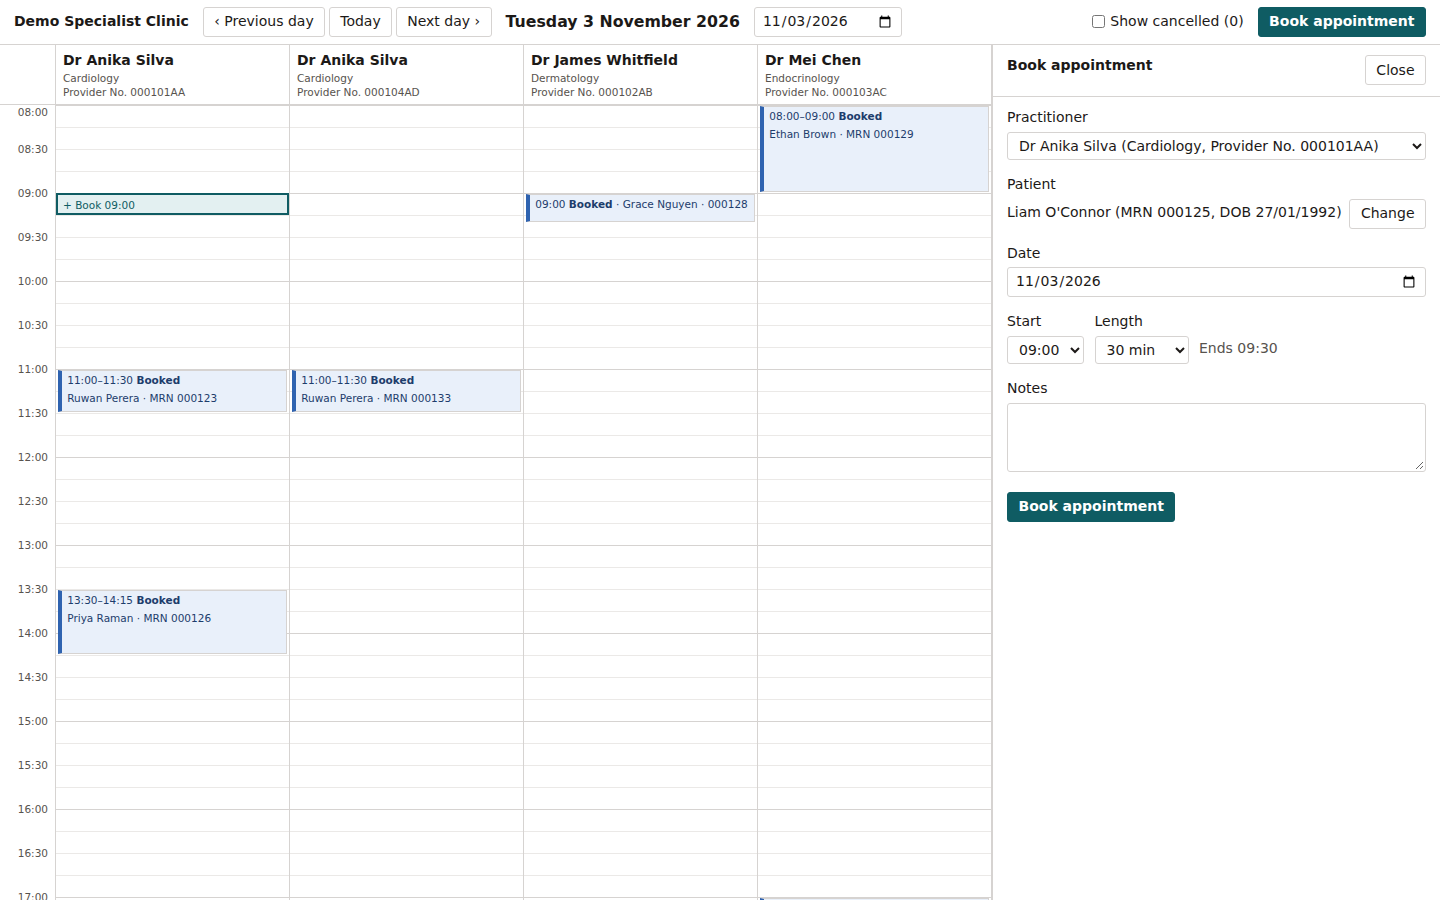
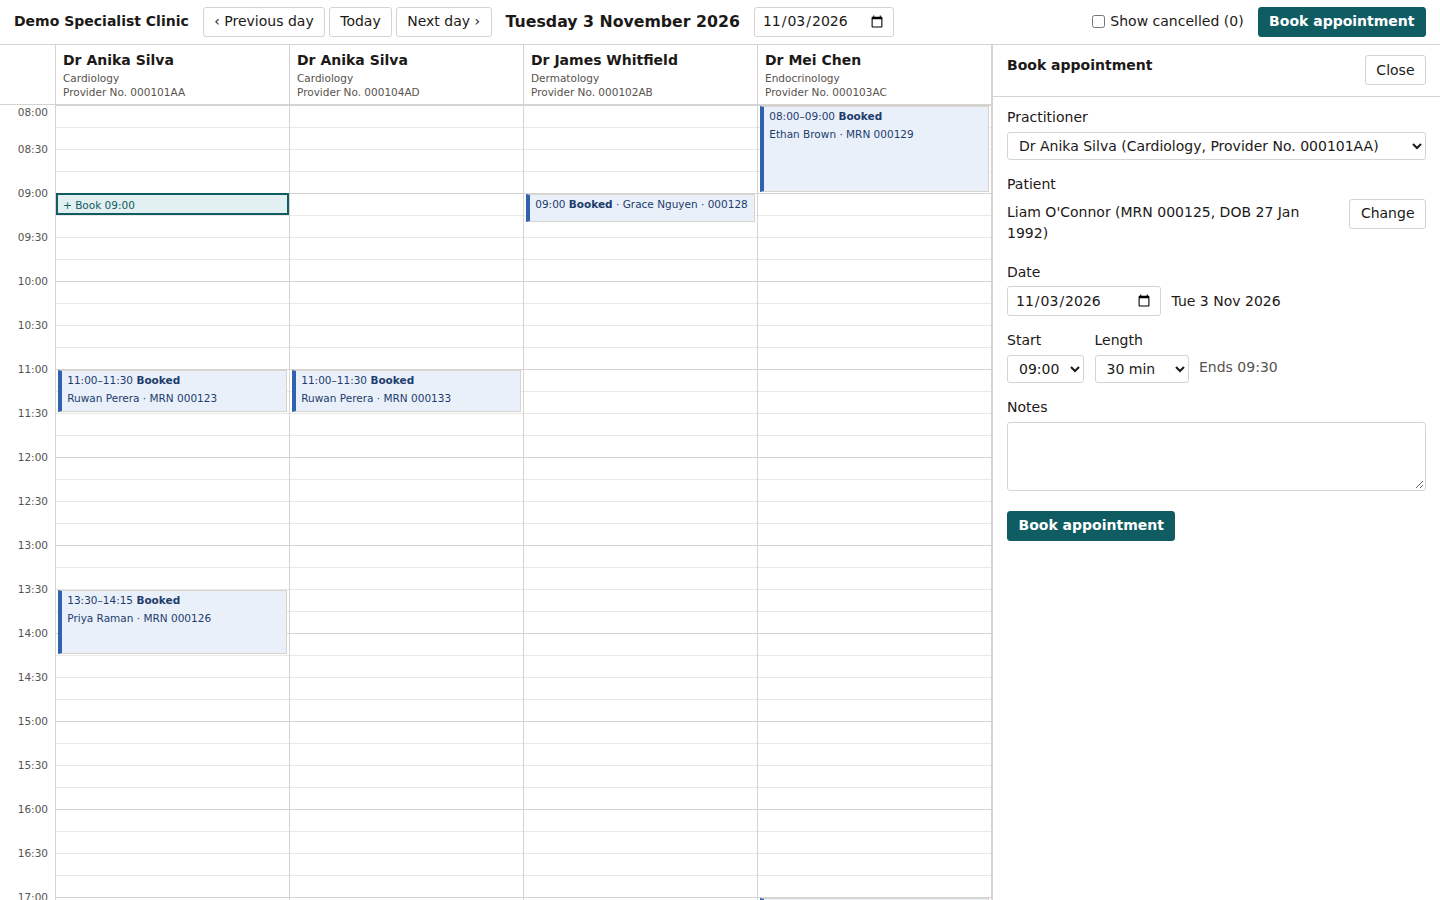
Show dates in words so they can't be misread
A date picker follows the browser's locale (11/02/2026 in a US-English
browser) while DOBs were shown day first (03/01/1998). In a clinic a
misread birth date matters, so every date people read is now in words:

- Patient labels: "Ruwan Perera (MRN 000123, DOB 12 Apr 1968)"
- The chosen date next to the booking date picker ("Mon 2 Nov 2026") and
  the date of birth next to the registration picker ("3 Jan 1998"), linked
  to the inputs with aria-describedby
- Patient search also accepts "3 Jan 1998" and "3 January 1998"
- The API keeps ISO dates
- Form styles moved into Tailwind's components layer so width utilities
  (w-44, w-auto) apply; the date fields were stretching to full width
- Tests, e2e and screenshots updated; new README screenshots of ambiguous
  names and a messy sentence, taken with the real Gemini API and invented
  names

diff --git a/frontend/e2e/booking.spec.ts b/frontend/e2e/booking.spec.ts
@@ -38,15 +38,17 @@ test("book an appointment from a free slot", async ({ page }) => {
   await expect(page.getByRole("heading", { name: "Book appointment" })).toBeVisible();
   await expect(page.getByLabel("Practitioner", { exact: true })).toHaveValue(/\d+/);
   await expect(page.getByLabel("Start")).toHaveValue("09:00");
+  // The date picker's own format follows the browser; the date is also shown in words.
+  await expect(page.getByLabel("Date", { exact: true })).toHaveAccessibleDescription(/^(Mon|Tue|Wed|Thu|Fri) \d{1,2} [A-Z][a-z]{2} \d{4}$/);
 
-  await choosePatient(page, "000125", "Liam O'Connor (MRN 000125, DOB 27/01/1992)");
+  await choosePatient(page, "000125", "Liam O'Connor (MRN 000125, DOB 27 Jan 1992)");
   await expect(page.getByText("Ends 09:30")).toBeVisible();
   if (saveScreenshots) await page.screenshot({ path: "../docs/screenshots/booking-panel.png" });
 
   await bookButton(page).click();
   await expect(page.getByText("Appointment booked.")).toBeVisible();
   await expect(
-    page.getByRole("button", { name: "09:00 to 09:30, Liam O'Connor (MRN 000125, DOB 27/01/1992), Booked" }),
+    page.getByRole("button", { name: "09:00 to 09:30, Liam O'Connor (MRN 000125, DOB 27 Jan 1992), Booked" }),
   ).toBeVisible();
 });
 
@@ -55,7 +57,7 @@ test("a clash shows its error under the practitioner field", async ({ page }) =>
 
   // Dr Silva (000101AA) has 11:00-11:30 booked on this day; 10:45 for 30 minutes runs into it.
   await page.getByRole("button", { name: `Book with ${SILVA} at 10:45` }).click();
-  await choosePatient(page, "000132", "Isla Robinson (MRN 000132, DOB 16/08/1996)");
+  await choosePatient(page, "000132", "Isla Robinson (MRN 000132, DOB 16 Aug 1996)");
   await page.getByLabel("Notes").fill("Kept after the error");
   await bookButton(page).click();
 
@@ -68,8 +70,8 @@ test("a clash shows its error under the practitioner field", async ({ page }) =>
 
 test("cancel an appointment, then see it with Show cancelled", async ({ page }) => {
   await openNextClinicDay(page);
-  const booked = "09:00 to 09:20, Grace Nguyen (MRN 000128, DOB 14/02/1958), Booked";
-  const cancelled = "09:00 to 09:20, Grace Nguyen (MRN 000128, DOB 14/02/1958), Cancelled";
+  const booked = "09:00 to 09:20, Grace Nguyen (MRN 000128, DOB 14 Feb 1958), Booked";
+  const cancelled = "09:00 to 09:20, Grace Nguyen (MRN 000128, DOB 14 Feb 1958), Cancelled";
   await expect(page.getByLabel("Show cancelled (0)")).not.toBeChecked();
 
   await page.getByRole("button", { name: booked }).click();

diff --git a/frontend/src/app/globals.css b/frontend/src/app/globals.css
@@ -47,54 +47,57 @@ body {
   outline-offset: 2px;
 }
 
-/* Shared form controls: thin borders, small radius, no shadows. */
-.field {
-  width: 100%;
-  border: 1px solid var(--color-line);
-  border-radius: 3px;
-  background: white;
-  padding: 0.3rem 0.5rem;
-  line-height: 1.4;
-}
-.field:disabled {
-  background: var(--color-page);
-  color: var(--color-muted);
-}
-.field[aria-invalid="true"] {
-  border-color: var(--color-danger);
-}
+/* In the components layer so Tailwind utilities (e.g. w-44) can override them. */
+@layer components {
+  /* Shared form controls: thin borders, small radius, no shadows. */
+  .field {
+    width: 100%;
+    border: 1px solid var(--color-line);
+    border-radius: 3px;
+    background: white;
+    padding: 0.3rem 0.5rem;
+    line-height: 1.4;
+  }
+  .field:disabled {
+    background: var(--color-page);
+    color: var(--color-muted);
+  }
+  .field[aria-invalid="true"] {
+    border-color: var(--color-danger);
+  }
 
-.btn {
-  border: 1px solid var(--color-line);
-  border-radius: 3px;
-  background: white;
-  padding: 0.3rem 0.75rem;
-  line-height: 1.4;
-  white-space: nowrap;
-}
-.btn:hover:not(:disabled) {
-  background: var(--color-page);
-}
-.btn:disabled {
-  opacity: 0.6;
-  cursor: not-allowed;
-}
-.btn-primary {
-  border-color: var(--color-accent);
-  background: var(--color-accent);
-  color: white;
-  font-weight: 600;
-}
-.btn-primary:hover:not(:disabled) {
-  background: var(--color-accent-hover);
-}
-.btn-danger {
-  border-color: var(--color-danger);
-  color: var(--color-danger);
-}
-.btn-danger-solid {
-  border-color: var(--color-danger);
-  background: var(--color-danger);
-  color: white;
-  font-weight: 600;
+  .btn {
+    border: 1px solid var(--color-line);
+    border-radius: 3px;
+    background: white;
+    padding: 0.3rem 0.75rem;
+    line-height: 1.4;
+    white-space: nowrap;
+  }
+  .btn:hover:not(:disabled) {
+    background: var(--color-page);
+  }
+  .btn:disabled {
+    opacity: 0.6;
+    cursor: not-allowed;
+  }
+  .btn-primary {
+    border-color: var(--color-accent);
+    background: var(--color-accent);
+    color: white;
+    font-weight: 600;
+  }
+  .btn-primary:hover:not(:disabled) {
+    background: var(--color-accent-hover);
+  }
+  .btn-danger {
+    border-color: var(--color-danger);
+    color: var(--color-danger);
+  }
+  .btn-danger-solid {
+    border-color: var(--color-danger);
+    background: var(--color-danger);
+    color: white;
+    font-weight: 600;
+  }
 }

diff --git a/frontend/src/components/BookingPanel.tsx b/frontend/src/components/BookingPanel.tsx
@@ -10,7 +10,7 @@ import {
   type Patient,
   type Practitioner,
 } from "@/lib/api";
-import { dateOf, fromMinutes, quarterHours, shortDate, timeOf, toMinutes } from "@/lib/time";
+import { dateOf, dayDate, fromMinutes, quarterHours, shortDate, timeOf, toMinutes } from "@/lib/time";
 import NLBookingBox from "./NLBookingBox";
 import PatientPicker, { FieldError } from "./PatientPicker";
 import RegisterPatient from "./RegisterPatient";
@@ -267,17 +267,27 @@ export default function BookingPanel({ target, clinic, practitioners, onClose, o
             />
           </div>
 
-          <label className="block">
-            <span className="mb-1 block font-medium">Date</span>
-            <input
-              type="date"
-              className="field w-44"
-              value={date}
-              onChange={(e) => setDate(e.target.value)}
-              aria-invalid={!!errors.start}
-              aria-describedby={errorId("start")}
-            />
-          </label>
+          <div>
+            <label htmlFor={`${id}-date`} className="mb-1 block font-medium">
+              Date
+            </label>
+            <div className="flex items-center gap-3">
+              <input
+                id={`${id}-date`}
+                type="date"
+                className="field w-44"
+                value={date}
+                onChange={(e) => setDate(e.target.value)}
+                aria-invalid={!!errors.start}
+                aria-describedby={[date ? `${id}-date-words` : "", errorId("start") ?? ""].join(" ").trim() || undefined}
+              />
+              {date && (
+                <span id={`${id}-date-words`} className="font-medium">
+                  {dayDate(date)}
+                </span>
+              )}
+            </div>
+          </div>
 
           <div>
             <div className="flex items-end gap-3">

diff --git a/frontend/src/components/RegisterPatient.tsx b/frontend/src/components/RegisterPatient.tsx
@@ -2,6 +2,7 @@
 
 import { useState } from "react";
 import { api, ApiError, type Patient } from "@/lib/api";
+import { birthDate } from "@/lib/time";
 import { FieldError } from "./PatientPicker";
 
 type Props = {
@@ -103,15 +104,26 @@ export default function RegisterPatient({ initialName, onDone, onBack }: Props) 
             <label htmlFor="register-dob" className="mb-1 block font-medium">
               Date of birth
             </label>
-            <input
-              id="register-dob"
-              type="date"
-              className="field w-44"
-              value={dateOfBirth}
-              onChange={(e) => setDateOfBirth(e.target.value)}
-              aria-invalid={!!fieldError("date_of_birth")}
-              aria-describedby={fieldError("date_of_birth") ? "register-dob-error" : undefined}
-            />
+            <div className="flex items-center gap-3">
+              <input
+                id="register-dob"
+                type="date"
+                className="field w-44"
+                value={dateOfBirth}
+                onChange={(e) => setDateOfBirth(e.target.value)}
+                aria-invalid={!!fieldError("date_of_birth")}
+                aria-describedby={
+                  [dateOfBirth ? "register-dob-words" : "", fieldError("date_of_birth") ? "register-dob-error" : ""]
+                    .join(" ")
+                    .trim() || undefined
+                }
+              />
+              {dateOfBirth && (
+                <span id="register-dob-words" className="font-medium">
+                  {birthDate(dateOfBirth)}
+                </span>
+              )}
+            </div>
             {fieldError("date_of_birth") && (
               <FieldError id="register-dob-error" message={fieldError("date_of_birth")!} />
             )}

diff --git a/frontend/src/lib/time.ts b/frontend/src/lib/time.ts
@@ -39,6 +39,18 @@ export function longDate(isoDate: string): string {
   return `${p.weekday} ${p.day} ${p.month} ${p.year}`;
 }
 
+/** "Mon 2 Nov 2026": shown next to date pickers, whose own format follows the browser's locale. */
+export function dayDate(isoDate: string): string {
+  const p = dateParts(isoDate, { weekday: "short", day: "numeric", month: "short", year: "numeric" });
+  return `${p.weekday} ${p.day} ${p.month} ${p.year}`;
+}
+
+/** "3 Jan 1998": dates of birth, never as numbers that could be read month-first. */
+export function birthDate(isoDate: string): string {
+  const p = dateParts(isoDate, { day: "numeric", month: "short", year: "numeric" });
+  return `${p.day} ${p.month} ${p.year}`;
+}
+
 /** "Mon 2 Nov" */
 export function shortDate(isoDate: string): string {
   const p = dateParts(isoDate, { weekday: "short", day: "numeric", month: "short" });

diff --git a/frontend/src/components/PatientPicker.tsx b/frontend/src/components/PatientPicker.tsx
@@ -83,7 +83,7 @@ export default function PatientPicker({ selected, onSelect, onRegisterNew, error
         ref={inputRef}
         id={`${id}-input`}
         className="field"
-        placeholder="Name, MRN or date of birth (dd/mm/yyyy)"
+        placeholder="Name, MRN or date of birth (e.g. 3 Jan 1998)"
         autoComplete="off"
         autoFocus={autoFocus}
         value={query}

diff --git a/backend/tests/test_api.py b/backend/tests/test_api.py
@@ -126,8 +126,8 @@ def test_people_lists_include_same_name_records_with_labels(client):
         "Dr Anika Silva (Cardiology, Provider No. 000104AD)",
     ]
     assert [p["label"] for p in pereras] == [
-        "Ruwan Perera (MRN 000123, DOB 12/04/1968)",
-        "Ruwan Perera (MRN 000133, DOB 12/04/1968)",
+        "Ruwan Perera (MRN 000123, DOB 12 Apr 1968)",
+        "Ruwan Perera (MRN 000133, DOB 12 Apr 1968)",
     ]
 
 
@@ -144,7 +144,7 @@ def test_create_returns_utc_and_sydney_times(client):
     assert body["status"] == "booked"
     assert body["notes"] == "Follow-up"
     assert body["practitioner"]["provider_number"] == "000101AA"
-    assert body["patient"]["label"] == "Ruwan Perera (MRN 000123, DOB 12/04/1968)"
+    assert body["patient"]["label"] == "Ruwan Perera (MRN 000123, DOB 12 Apr 1968)"
 
 
 def test_create_accepts_a_time_with_an_offset(client):
@@ -403,7 +403,7 @@ def test_search_by_mrn(client):
     assert search(client, "000128") == ["000128"]
 
 
-@pytest.mark.parametrize("q", ["12/04/1968", "1968-04-12"])
+@pytest.mark.parametrize("q", ["12/04/1968", "1968-04-12", "12 Apr 1968", "12 april 1968"])
 def test_search_by_date_of_birth(client, q):
     assert search(client, q) == ["000123", "000133"]
 
@@ -435,7 +435,7 @@ def test_register_assigns_the_next_mrn(client):
         "mrn": "000134",
         "full_name": "Kamal Silva",
         "date_of_birth": "1990-04-03",
-        "label": "Kamal Silva (MRN 000134, DOB 03/04/1990)",
+        "label": "Kamal Silva (MRN 000134, DOB 3 Apr 1990)",
     }
     assert register(client, full_name="Asha Silva").json()["mrn"] == "000135"
 
@@ -451,8 +451,8 @@ def test_register_same_name_and_birthday_returns_matches(client):
     assert body["code"] == "possible_duplicate"
     assert body["detail"] == "2 patients with this name and date of birth already exist."
     assert [m["label"] for m in body["matches"]] == [
-        "Ruwan Perera (MRN 000123, DOB 12/04/1968)",
-        "Ruwan Perera (MRN 000133, DOB 12/04/1968)",
+        "Ruwan Perera (MRN 000123, DOB 12 Apr 1968)",
+        "Ruwan Perera (MRN 000133, DOB 12 Apr 1968)",
     ]
     assert search(client, "perera") == ["000123", "000133"]  # nothing was saved
 

diff --git a/backend/app/services.py b/backend/app/services.py
@@ -147,7 +147,7 @@ def get_patient(session: Session, patient_id: int) -> Patient:
 
 def search_patients(session: Session, query: str, limit: int = 20) -> list[Patient]:
     """Find patients by name (every word must appear), MRN, or date of birth
-    (dd/mm/yyyy or yyyy-mm-dd). An empty query returns everyone, up to `limit`."""
+    (3 Jan 1998, 03/01/1998 day first, or 1998-01-03). An empty query returns everyone, up to `limit`."""
     query = query.strip()
     statement = select(Patient)
     if query:
@@ -190,7 +190,7 @@ def _next_mrn(session: Session) -> str:
 
 
 def _parse_date(text_value: str) -> date | None:
-    for fmt in ("%d/%m/%Y", "%Y-%m-%d"):
+    for fmt in ("%d/%m/%Y", "%Y-%m-%d", "%d %b %Y", "%d %B %Y"):
         try:
             return datetime.strptime(text_value, fmt).date()
         except ValueError:

diff --git a/backend/tests/test_rules.py b/backend/tests/test_rules.py
@@ -184,8 +184,15 @@ def test_clash_message_names_the_right_patient_by_mrn():
     assert "MRN 000123" not in err.value.message
 
 
+def test_date_of_birth_is_written_in_words():
+    # Day first or month first can't be confused: no leading zero, month as a word.
+    assert patient(9, "Kamal Silva", "000134").model_copy(update={"date_of_birth": date(1998, 1, 3)}).label == (
+        "Kamal Silva (MRN 000134, DOB 3 Jan 1998)"
+    )
+
+
 def test_labels_include_identifier():
-    assert PERERA.label == "Ruwan Perera (MRN 000123, DOB 12/04/1968)"
+    assert PERERA.label == "Ruwan Perera (MRN 000123, DOB 12 Apr 1968)"
     assert DR_SILVA.label == "Dr Anika Silva (Cardiology, Provider No. 000101AA)"
 
 

diff --git a/backend/tests/test_nl_booking.py b/backend/tests/test_nl_booking.py
@@ -75,8 +75,8 @@ def test_ambiguous_names_return_every_match(client, use_parser):
     body = parse(client).json()
     assert body["patient"]["query"] == "Mr Perera"
     assert [p["label"] for p in body["patient"]["matches"]] == [
-        "Ruwan Perera (MRN 000123, DOB 12/04/1968)",
-        "Ruwan Perera (MRN 000133, DOB 12/04/1968)",
+        "Ruwan Perera (MRN 000123, DOB 12 Apr 1968)",
+        "Ruwan Perera (MRN 000133, DOB 12 Apr 1968)",
     ]
     assert body["practitioner"]["query"] == "Dr Silva"
     assert [p["provider_number"] for p in body["practitioner"]["matches"]] == ["000101AA", "000104AD"]

diff --git a/backend/app/api.py b/backend/app/api.py
@@ -109,7 +109,7 @@ def patient_read(patient: Patient) -> PatientRead:
 
 @router.get("/patients", response_model=list[PatientRead])
 def list_patients(q: str = "", session: Session = Depends(get_session)):
-    """Search by name, MRN or date of birth (dd/mm/yyyy or yyyy-mm-dd). Up to 20 results."""
+    """Search by name, MRN or date of birth (3 Jan 1998, 03/01/1998 day first, or 1998-01-03). Up to 20 results."""
     return [patient_read(p) for p in services.search_patients(session, q)]
 
 

diff --git a/backend/app/models.py b/backend/app/models.py
@@ -61,7 +61,9 @@ class Patient(SQLModel, table=True):
 
     @property
     def label(self) -> str:
-        return f"{self.full_name} (MRN {self.mrn}, DOB {self.date_of_birth:%d/%m/%Y})"
+        # Date in words ("3 Jan 1998") so it can't be misread as month-first.
+        dob = self.date_of_birth
+        return f"{self.full_name} (MRN {self.mrn}, DOB {dob.day} {dob:%b %Y})"
 
 
 class Appointment(SQLModel, table=True):
